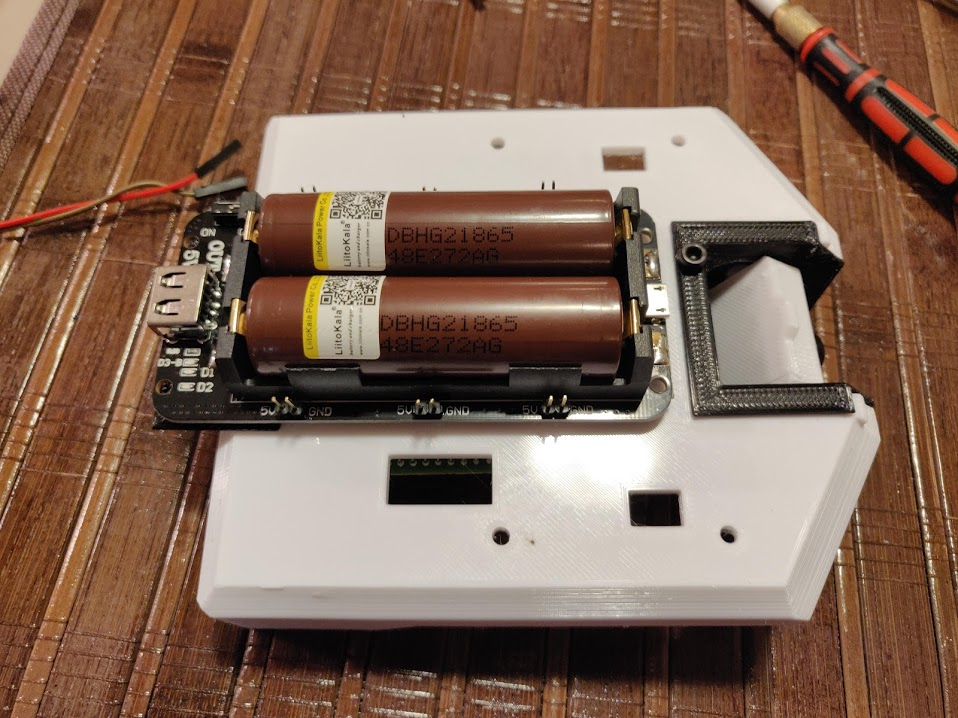
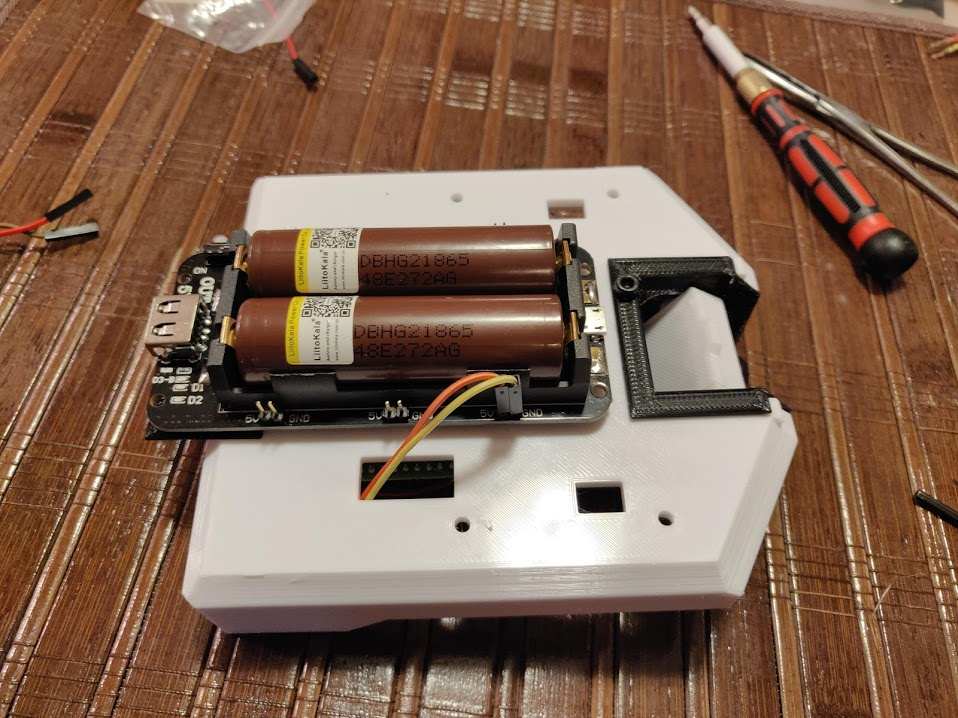
more assembly

diff --git a/ASSEMBLY.md b/ASSEMBLY.md
@@ -26,7 +26,7 @@ None of the 3D printed parts require supports. I recommend printing in PETG, or 
 <a href="images/assembly/servo.jpg"><img src="images/assembly/servo.jpg" height="200"></a>
 <a href="images/assembly/camera.jpg"><img src="images/assembly/camera.jpg" height="200"></a>
 <a href="images/assembly/bucket.jpg"><img src="images/assembly/bucket.jpg" height="200"></a>
-<a href="images/assembly/charger_attached.jpg"><img src="images/assembly/charger_attached.jpg" height="200"></a>
+<a href="images/assembly/charger_attached.jpg?"><img src="images/assembly/charger_attached.jpg?" height="200"></a>
 
 1. Print out cover.stl, servo holder.stl, camera bucket.stl, power board standoff.stl, camera body.stl, camera door.stl
 1. Solder 2 single pin headers to the audio jack of the raspberry pi, as shown in pictures. You will need to scrape off some plastic for one of them.
@@ -50,5 +50,6 @@ None of the 3D printed parts require supports. I recommend printing in PETG, or 
 1. Insert the door into the camera body.
 1. Use a 8mm bolt to attach the bucket to the top of the cover.
 1. Take the batteries out of the board, place the standoff onto the bottom of the board and use 12mm bolts to attach it to the top of the cover.
+1. Place the batteries back in. Connect 5V and GND from the power board to GPIO board pins 2 and 6 with 10CM Dupont wires.
 
 
